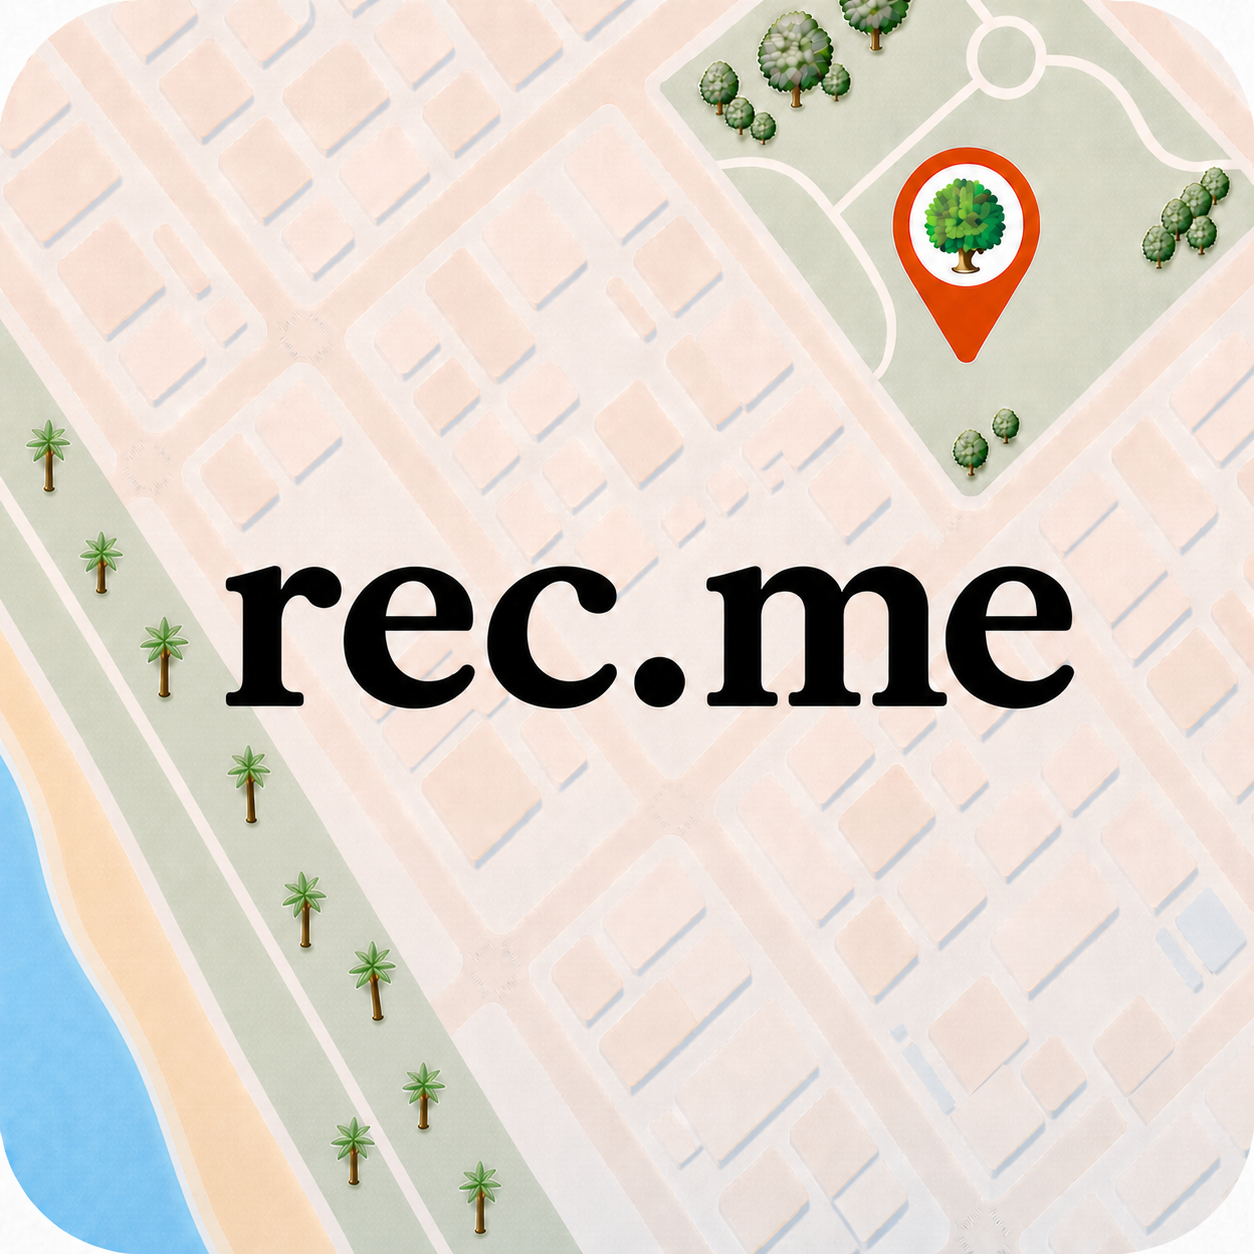
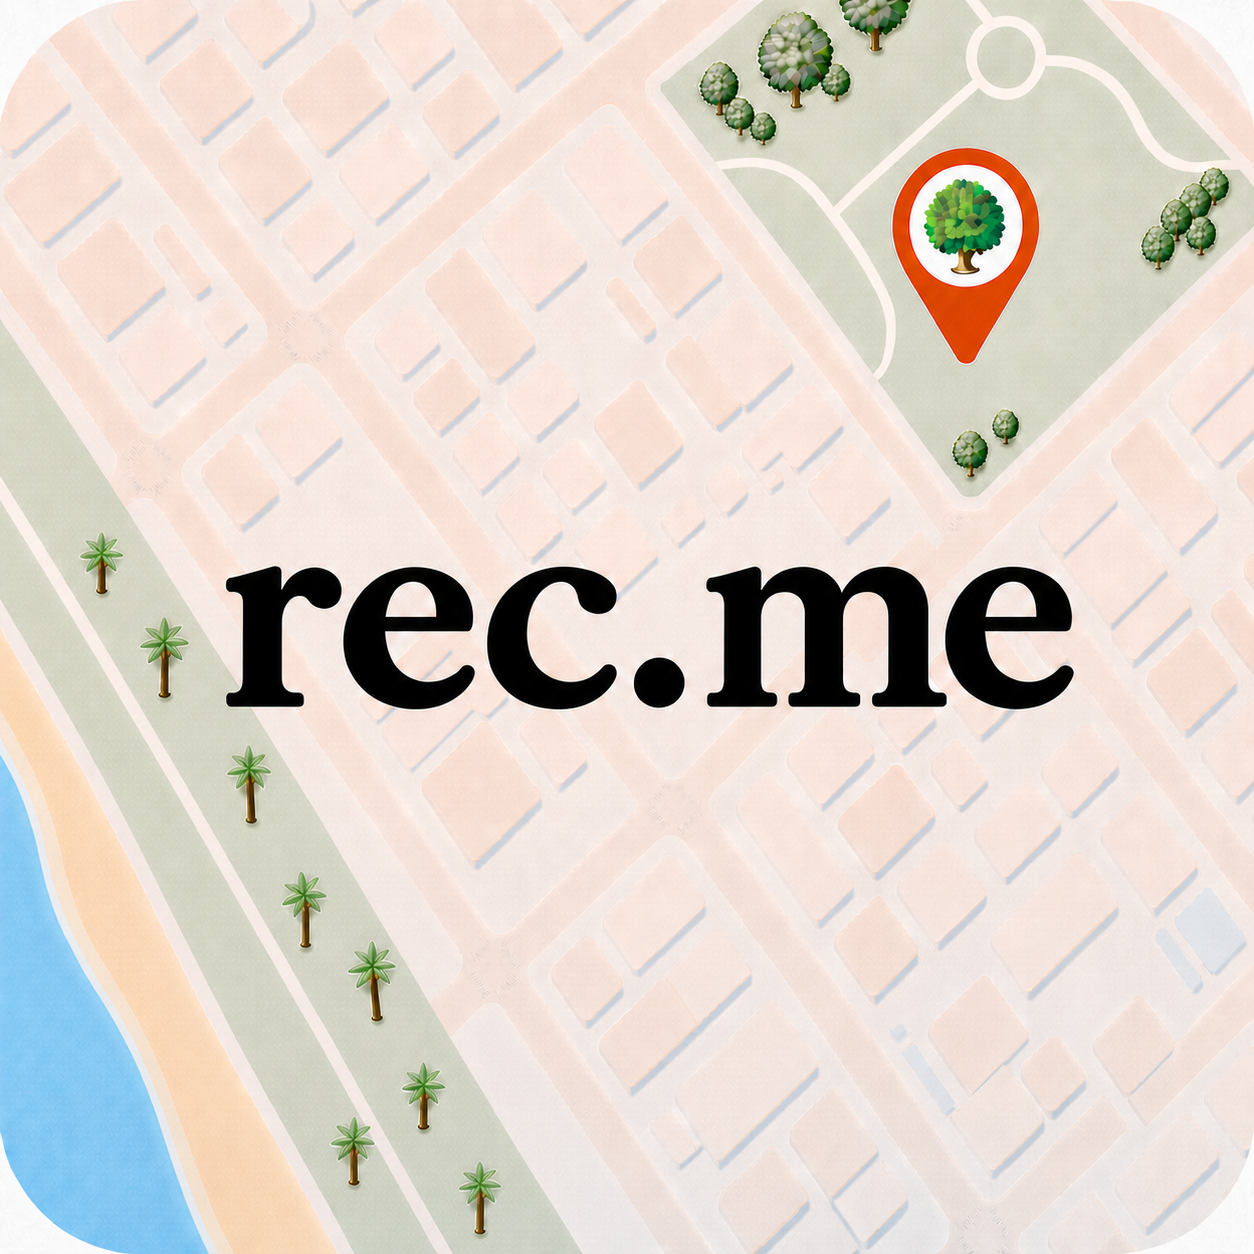
refine(REC-343): remove rogue outer-strip palm

diff --git a/preview/app-icon-candidates/rec-343/README.md b/preview/app-icon-candidates/rec-343/README.md
@@ -2,7 +2,7 @@
 
 The revised original warm-map direction is the selected candidate. The Liquid Glass version remains here as the comparison candidate from the review; the current production icon is unchanged pending explicit promotion approval.
 
-`source/recme-warm-map-original-source-1254.png` is a byte-for-byte copy of the initially supplied image. `source/recme-warm-map-selected-source-1254.png` is the selected revision with eight less-symmetrical palms contained inside the left sage-green strip. The selected candidate's Icon Composer source is a 1024 px normalization of that revision.
+`source/recme-warm-map-original-source-1254.png` is a byte-for-byte copy of the initially supplied image. `source/recme-warm-map-selected-source-1254.png` is the selected revision with eight less-symmetrical palms contained inside the main left sage-green corridor and no palm in the adjacent outer strip. The selected candidate's Icon Composer source is a 1024 px normalization of that revision.
 
 ## Variants
 
@@ -16,6 +16,8 @@ Each `.icon` document contains its opaque 1024 px source; the `previews` folder 
 Built-in image editing was used with the original supplied image as the edit target:
 
 > Edit only the palm trees running down the diagonal sage-green strip along the left side. Reduce them from the current dense, evenly spaced row to approximately eight palms. Arrange those palms with intentionally irregular natural spacing, varied gaps, subtle differences in height and crown size, and slight varied leans so they do not look copied or symmetrical. Preserve absolutely everything else in appearance. Every edited palm, including its full trunk, leaves, and shadow, must remain completely within the diagonal sage-green strip.
+
+The follow-up edit removed the single isolated palm from the narrow outer green strip and reconstructed the matching green texture beneath it without changing the eight palms in the main corridor.
 
 ## Liquid Glass image-generation prompt
 
